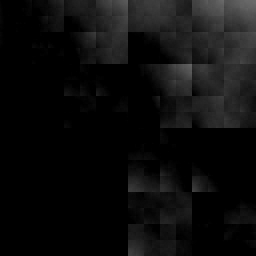
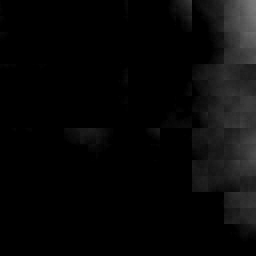
Progress. Added function to the perlin noise gen

diff --git a/Lab1/MainGame.cpp b/Lab1/MainGame.cpp
@@ -67,9 +67,6 @@ void MainGame::initSystems()
 
 	noiseGen.CreatePerlinNoiseTexture();
 	initUI();
-
-	// Uncomment if we are doing camera movement
-	// SDL_SetRelativeMouseMode(SDL_TRUE);
 }
 
 void MainGame::initQuadVAO()
@@ -121,27 +118,24 @@ void MainGame::initUI()
 
 	/*	Seed Slider	*/
 	yOrigin -= 70;
-	std::shared_ptr<UISlider> seedSlider = std::make_shared<UISlider>("Seed", 1, 10000, false, origin, yOrigin, 400, 20);
-	seedSlider->addListener([seedSlider]()
+	std::shared_ptr<UISlider> seedSlider = std::make_shared<UISlider>("Seed", 1.0f, 10000.0f, false, origin, yOrigin, 400, 20);
+	seedSlider->setValue(noiseGen.getSeedValue());
+	seedSlider->addListener([seedSlider, this]()
 		{
-			float currentValue = seedSlider->getCurrentValue();
-			std::cout << "Current value of slider is: " << currentValue << std::endl;
+			unsigned int seed = seedSlider->getCurrentValue();
+			noiseGen.setSeedValue(seed);
 		}
 	);
 	uiElements.push_back(std::static_pointer_cast<BaseUserInterfaceElement>(seedSlider));
 
 	/*	Amplitude Slider	*/
 	yOrigin -= 70;
-	std::shared_ptr<UISlider> ampSlider = std::make_shared<UISlider>("Amplitude", 1, 6, true, origin, yOrigin, 400, 20);
-	ampSlider->addListener([ampSlider]()
+	std::shared_ptr<UISlider> ampSlider = std::make_shared<UISlider>("Amplitude", 1.0f, 6.0f, true, origin, yOrigin, 400, 20);
+	ampSlider->setValue(noiseGen.getAmpCount());
+	ampSlider->addListener([ampSlider, this]()
 		{
-			if (ampSlider != nullptr) {
-				float currentValue = ampSlider->getCurrentValue();
-				std::cout << "Current value of slider is: " << currentValue << std::endl;
-			}
-			else {
-				std::cerr << "Slider or currentValue is null!" << std::endl;
-			}
+			float ampCount = ampSlider->getCurrentValue();
+			noiseGen.setAmpCount(ampCount);
 		}
 	);
 	uiElements.push_back(std::static_pointer_cast<BaseUserInterfaceElement>(ampSlider));
@@ -149,31 +143,23 @@ void MainGame::initUI()
 	/*	Frequency Slider	*/
 	yOrigin -= 70;
 	std::shared_ptr<UISlider> freqSlider = std::make_shared<UISlider>("Frequency", 0.001f, 3.00f, true, origin, yOrigin, 400, 20);
-	freqSlider->addListener([freqSlider]()
+	freqSlider->setValue(noiseGen.getFreqCount());
+	freqSlider->addListener([freqSlider, this]()
 		{
-			if (freqSlider != nullptr) {
-				float currentValue = freqSlider->getCurrentValue();
-				std::cout << "Current value of slider is: " << currentValue << std::endl;
-			}
-			else {
-				std::cerr << "Slider or currentValue is null!" << std::endl;
-			}
+			float freqCount = freqSlider->getCurrentValue();
+			noiseGen.setFreqCount(freqCount);
 		}
 	);
 	uiElements.push_back(std::static_pointer_cast<BaseUserInterfaceElement>(freqSlider));
 
 	/*	Ocative Slider	*/
 	yOrigin -= 70;
-	std::shared_ptr<UISlider> octSlider = std::make_shared<UISlider>("Ocative Count", 1, 16, false, origin, yOrigin, 400, 20);
-	octSlider->addListener([octSlider]()
+	std::shared_ptr<UISlider> octSlider = std::make_shared<UISlider>("Ocative Count", 1.0f, 16.0f, false, origin, yOrigin, 400, 20);
+	octSlider->setValue(noiseGen.getOcativeCount());
+	octSlider->addListener([octSlider, this]()
 		{
-			if (octSlider != nullptr) {
-				float currentValue = octSlider->getCurrentValue();
-				std::cout << "Current value of slider is: " << currentValue << std::endl;
-			}
-			else {
-				std::cerr << "Slider or currentValue is null!" << std::endl;
-			}
+			int octCount = octSlider->getCurrentValue();
+			noiseGen.setOcativeCount(octCount);
 		}
 	);
 	uiElements.push_back(std::static_pointer_cast<BaseUserInterfaceElement>(octSlider));
@@ -188,7 +174,11 @@ void MainGame::initUI()
 	/*	Show Different Model Button	*/
 	yOrigin -= 90;
 	button = std::make_shared<UIButton>("Generate Perlin", origin, yOrigin, 200, 50);
-	button->addListener([]() {std::cout << "EVENT WHOOO!!!" << std::endl;});
+	button->addListener([this]() 
+		{
+			noiseGen.CreatePerlinNoiseTexture();
+		}
+	);
 	uiElements.push_back(std::static_pointer_cast<BaseUserInterfaceElement>(button));
 }
 
@@ -241,7 +231,7 @@ void MainGame::processInput()
 					case SDLK_BACKSPACE:
 						system("cls");
 						std::cout << "BACKSPACE KEY PRESSED" << std::endl;
-						noiseGen.SetSeedValue(perlinNoiseSeedValue);
+						noiseGen.setSeedValue(perlinNoiseSeedValue);
 						noiseGen.CreatePerlinNoiseTexture();
 						break;
 

diff --git a/Lab1/PerlinNoiseGenerator.cpp b/Lab1/PerlinNoiseGenerator.cpp
@@ -49,8 +49,8 @@ const float& PerlinNoiseGenerator::Noise2D(const float& x, const float& y, const
 
 const float& PerlinNoiseGenerator::FractalBrownianMotion(const float& x, const float& y, const int& octavesNum)
 {
-	float amplitude = 1.0f;
-	float frequency = 1.0f;
+	float amplitude = userSelectedAmp;
+	float frequency = userSelectedFreq;
 	float maxAmp = 0.0f;
 	float result = 0;
 
@@ -80,9 +80,7 @@ void PerlinNoiseGenerator::CreatePerlinNoiseTexture()
 	// Populate the texture data with noise values
 	for (int h = 0; h < height; h++) {
 		for (int w = 0; w < width; w++) {
-			floatData = FractalBrownianMotion(w, h, 16);
-
-			//std::cout << "Position is: X: " << w << ", " << h << " Data Output is: " << floatData << std::endl;
+			floatData = FractalBrownianMotion(w, h, userSelectedOcativeCount);
 
 			floatData = (floatData - 0) / (1 - 0);
 
@@ -99,8 +97,8 @@ void PerlinNoiseGenerator::CreatePerlinNoiseTexture()
 	//std::filesystem::path currentPath = std::filesystem::current_path();
 	//std::cout << "Current working directory: " << currentPath << std::endl;
 
-
-	int res = stbi_write_png("GeneratedPerlinNoise.png", width, height, 1, data, width * 1);
+	
+	int res = stbi_write_png("..\\res\\PerlinNoise\\GeneratedPerlinNoise.png", width, height, 1, data, width * 1);
 
 	if (res == 0) {
 		std::cout << "UNABLE TO WRITE TO FILE" << std::endl;
@@ -131,9 +129,44 @@ void PerlinNoiseGenerator::DebuggingOutputToConsole(const int& width, const int&
 	}
 }
 
-const void PerlinNoiseGenerator::SetSeedValue(const unsigned int& seedValue) const
+const unsigned int& PerlinNoiseGenerator::getSeedValue() const
+{
+	return seed;
+}
+
+const int& PerlinNoiseGenerator::getOcativeCount() const
+{
+	return userSelectedOcativeCount;
+}
+
+const float& PerlinNoiseGenerator::getAmpCount() const
+{
+	return userSelectedAmp;
+}
+
+const float& PerlinNoiseGenerator::getFreqCount() const
+{
+	return userSelectedFreq;
+}
+
+const void PerlinNoiseGenerator::setSeedValue(unsigned int& seedValue)
 {
 	seed = seedValue;
+}
+
+const void PerlinNoiseGenerator::setOcativeCount(int& octValue)
+{
+	userSelectedOcativeCount = octValue;
+}
+
+const void PerlinNoiseGenerator::setAmpCount(float& ampValue)
+{
+	userSelectedAmp = ampValue;
+}
+
+const void PerlinNoiseGenerator::setFreqCount(float& freqValue)
+{
+	userSelectedFreq = freqValue;
 }
 
 /// <summary>

diff --git a/Lab1/PerlinNoiseGenerator.h b/Lab1/PerlinNoiseGenerator.h
@@ -9,8 +9,8 @@
 class PerlinNoiseGenerator
 {
 public:
-    PerlinNoiseGenerator() : seed(defaultSeed), p_table{} {}
-    PerlinNoiseGenerator(unsigned int& seedVal) : seed(seedVal), p_table {} {}
+    PerlinNoiseGenerator() : seed(defaultSeed), p_table{}, userSelectedOcativeCount(2), userSelectedAmp(1.0f), userSelectedFreq(1.0f) {}
+    PerlinNoiseGenerator(unsigned int& seedVal) : seed(seedVal), p_table {}, userSelectedOcativeCount(2), userSelectedAmp(1.0f), userSelectedFreq(1.0f) {}
 	~PerlinNoiseGenerator(){}
 
     const float& Noise2D(const float& x, const float& y, const int& octavesNum);
@@ -19,8 +19,18 @@ public:
     void CreatePerlinNoiseTexture();
     void DebuggingOutputToConsole(const int& width, const int& height, const unsigned int& seedValue);
 
-    const void SetSeedValue(const unsigned int& seedValue) const;
+    const unsigned int& getSeedValue() const;
+    const int& getOcativeCount() const;
+    const float& getAmpCount() const;
+    const float& getFreqCount() const;
     inline const Texture GetTexture() const { return perlinNoiseTexture; }
+
+    const void setSeedValue(unsigned int& seedValue);
+    const void setOcativeCount(int& octValue);
+    const void setAmpCount(float& ampValue);
+    const void setFreqCount(float& freqValue);
+
+
 
 private:
     Texture perlinNoiseTexture;
@@ -39,7 +49,8 @@ private:
 
     glm::vec2 pre_topLeft, pre_topRight, pre_botLeft, pre_botRight;
     int pre_aa =0, pre_ab = 0, pre_ba = 0, pre_bb = 0;
-
+    int userSelectedOcativeCount;
+    float userSelectedAmp, userSelectedFreq;
 
 
     // Declared to reduce computation for continual use. 
